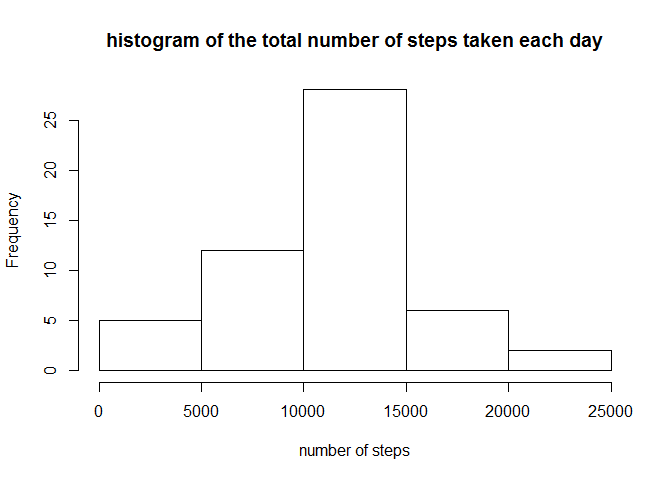
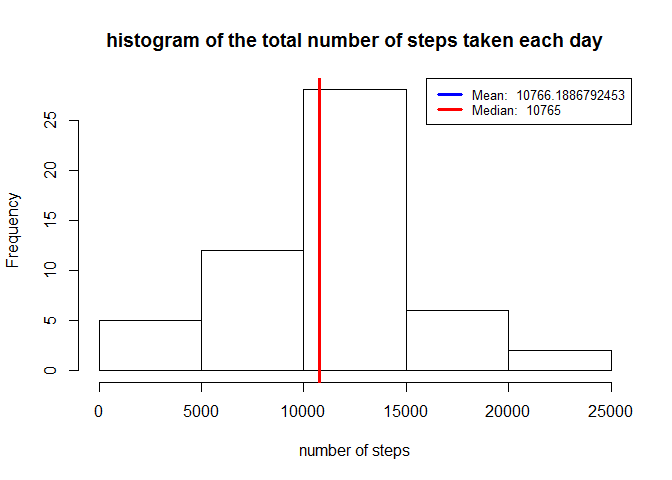
Added Legend

Changed region(s): [[0.4688, 0.1562, 0.5, 0.7812], [0.6562, 0.1875, 0.9375, 0.25]]

diff --git a/PA1_template.html b/PA1_template.html
@@ -134,14 +134,38 @@ hist(AggrSumByDay$steps,
      main = &quot;histogram of the total number of steps taken each day&quot;, 
      xlab = &quot;number of steps&quot; )
 
+#place lines for mean and median on histogram
+abline(v=mean(AggrSumByDay$steps), lwd = 3, col = 'blue')
+abline(v=median(AggrSumByDay$steps), lwd = 3, col = 'red')
+
+#create legend
+legend('topright', lty = 1, lwd = 3, col = c(&quot;blue&quot;, &quot;red&quot;),
+       cex = .8, 
+       legend = c(paste('Mean: ', mean(AggrSumByDay$steps)),
+       paste('Median: ', median(AggrSumByDay$steps)))
+       )
+
 dev.off() </code></pre>
 <pre><code>## png 
 ##   2</code></pre>
 <pre class="r"><code>## create a histogram of the total number of steps taken each day
 hist(AggrSumByDay$steps,
-     main = &quot;histogram of the total number of steps taken each day&quot;, 
-     xlab = &quot;number of steps&quot; )</code></pre>
[1 lines of base64/hex data omitted]
+    main = &quot;histogram of the total number of steps taken each day&quot;, 
+    xlab = &quot;number of steps&quot; )
+
+
+
+#place lines for mean and median on histogram
+abline(v=mean(AggrSumByDay$steps), lwd = 3, col = 'blue')
+abline(v=median(AggrSumByDay$steps), lwd = 3, col = 'red')
+
+#create legend
+legend('topright', lty = 1, lwd = 3, col = c(&quot;blue&quot;, &quot;red&quot;),
+       cex = .8, 
+       legend = c(paste('Mean: ', mean(AggrSumByDay$steps)),
+       paste('Median: ', median(AggrSumByDay$steps)))
+       )</code></pre>
[1 lines of base64/hex data omitted]
 <p>The mean is 1.076618910^{4} and the median is 10765</p>
 </div>
 <div id="what-is-the-average-daily-activity-pattern" class="section level2">
@@ -246,23 +270,70 @@ par(mfrow = c(1, 2)) #REMEMBER THIS PLACES THE IMAGES IN NW, NE, SW, SE QUADRANT
 hist(NewAggrSumByDay$steps,
      main = &quot;New Histogram - NA values =0&quot;, 
      xlab = &quot;number of steps&quot; )
+#place lines for mean and median on histogram
+abline(v=mean(NewAggrSumByDay$steps), lwd = 3, col = 'blue')
+abline(v=median(NewAggrSumByDay$steps), lwd = 3, col = 'red')
+
+#create legend
+legend('topright', lty = 1, lwd = 3, col = c(&quot;blue&quot;, &quot;red&quot;),
+       cex = .8, 
+       legend = c(paste('Mean: ', mean(NewAggrSumByDay$steps)),
+       paste('Median: ', median(NewAggrSumByDay$steps)))
+       )
+
 
 hist(AggrSumByDay$steps,
      main = &quot;Old Histogram - no NA values&quot;, 
      xlab = &quot;number of steps&quot; )
 
+#place lines for mean and median on histogram
+abline(v=mean(AggrSumByDay$steps), lwd = 3, col = 'blue')
+abline(v=median(AggrSumByDay$steps), lwd = 3, col = 'red')
+
+#create legend
+legend('topright', lty = 1, lwd = 3, col = c(&quot;blue&quot;, &quot;red&quot;),
+       cex = .8, 
+       legend = c(paste('Mean: ', mean(AggrSumByDay$steps)),
+       paste('Median: ', median(AggrSumByDay$steps)))
+       )
+
 dev.off()</code></pre>
 <pre><code>## png 
 ##   2</code></pre>
-<pre class="r"><code>## create a histogram of the total number of steps taken each day
+<pre class="r"><code>par(mfrow = c(1, 2)) #REMEMBER THIS PLACES THE IMAGES IN NW, NE, SW, SE QUADRANT ORDER
+
+## create a histogram of the total number of steps taken each day
 hist(NewAggrSumByDay$steps,
      main = &quot;New Histogram - NA values =0&quot;, 
-     xlab = &quot;number of steps&quot; )</code></pre>
[1 lines of base64/hex data omitted]
-<pre class="r"><code>hist(AggrSumByDay$steps,
+     xlab = &quot;number of steps&quot; )
+
+#place lines for mean and median on histogram
+abline(v=mean(NewAggrSumByDay$steps), lwd = 3, col = 'blue')
+abline(v=median(NewAggrSumByDay$steps), lwd = 3, col = 'red')
+
+#create legend
+legend('topright', lty = 1, lwd = 3, col = c(&quot;blue&quot;, &quot;red&quot;),
+       cex = .8, 
+       legend = c(paste('Mean: ', mean(NewAggrSumByDay$steps)),
+       paste('Median: ', median(NewAggrSumByDay$steps)))
+       )
+
+
+hist(AggrSumByDay$steps,
      main = &quot;Old Histogram - no NA values&quot;, 
-     xlab = &quot;number of steps&quot; )</code></pre>
[1 lines of base64/hex data omitted]
+     xlab = &quot;number of steps&quot; )
+
+#place lines for mean and median on histogram
+abline(v=mean(AggrSumByDay$steps), lwd = 3, col = 'blue')
+abline(v=median(AggrSumByDay$steps), lwd = 3, col = 'red')
+
+#create legend
+legend('topright', lty = 1, lwd = 3, col = c(&quot;blue&quot;, &quot;red&quot;),
+       cex = .8, 
+       legend = c(paste('Mean: ', mean(AggrSumByDay$steps)),
+       paste('Median: ', median(AggrSumByDay$steps)))
+       )</code></pre>
[1 lines of base64/hex data omitted]
 <p>New Mean(after replacing NA values with zero): 9354.2295082, Old Mean(after eliminating NA Values): 1.076618910^{4}</p>
 <p>New Median(after replacing NA values with zero): 1.039510^{4}, Old Median(after eliminating NA Values): 10765</p>
 <p>Imputing Missing data caused the mean and median to decrease, since the NA values which were previously eliminated were now counted in as zeros, thereby causing the denominator to increase in calculating the mean.</p>

diff --git a/PA1_template.md b/PA1_template.md
@@ -77,6 +77,17 @@ hist(AggrSumByDay$steps,
      main = "histogram of the total number of steps taken each day", 
      xlab = "number of steps" )
 
+#place lines for mean and median on histogram
+abline(v=mean(AggrSumByDay$steps), lwd = 3, col = 'blue')
+abline(v=median(AggrSumByDay$steps), lwd = 3, col = 'red')
+
+#create legend
+legend('topright', lty = 1, lwd = 3, col = c("blue", "red"),
+       cex = .8, 
+       legend = c(paste('Mean: ', mean(AggrSumByDay$steps)),
+       paste('Median: ', median(AggrSumByDay$steps)))
+       )
+
 dev.off() 
 ```
 
@@ -88,8 +99,21 @@ dev.off()
 ```r
 ## create a histogram of the total number of steps taken each day
 hist(AggrSumByDay$steps,
-     main = "histogram of the total number of steps taken each day", 
-     xlab = "number of steps" )
+    main = "histogram of the total number of steps taken each day", 
+    xlab = "number of steps" )
+
+
+
+#place lines for mean and median on histogram
+abline(v=mean(AggrSumByDay$steps), lwd = 3, col = 'blue')
+abline(v=median(AggrSumByDay$steps), lwd = 3, col = 'red')
+
+#create legend
+legend('topright', lty = 1, lwd = 3, col = c("blue", "red"),
+       cex = .8, 
+       legend = c(paste('Mean: ', mean(AggrSumByDay$steps)),
+       paste('Median: ', median(AggrSumByDay$steps)))
+       )
 ```
 
 ![](PA1_template_files/figure-html/unnamed-chunk-2-1.png) 
@@ -224,10 +248,32 @@ par(mfrow = c(1, 2)) #REMEMBER THIS PLACES THE IMAGES IN NW, NE, SW, SE QUADRANT
 hist(NewAggrSumByDay$steps,
      main = "New Histogram - NA values =0", 
      xlab = "number of steps" )
+#place lines for mean and median on histogram
+abline(v=mean(NewAggrSumByDay$steps), lwd = 3, col = 'blue')
+abline(v=median(NewAggrSumByDay$steps), lwd = 3, col = 'red')
+
+#create legend
+legend('topright', lty = 1, lwd = 3, col = c("blue", "red"),
+       cex = .8, 
+       legend = c(paste('Mean: ', mean(NewAggrSumByDay$steps)),
+       paste('Median: ', median(NewAggrSumByDay$steps)))
+       )
+
 
 hist(AggrSumByDay$steps,
      main = "Old Histogram - no NA values", 
      xlab = "number of steps" )
+
+#place lines for mean and median on histogram
+abline(v=mean(AggrSumByDay$steps), lwd = 3, col = 'blue')
+abline(v=median(AggrSumByDay$steps), lwd = 3, col = 'red')
+
+#create legend
+legend('topright', lty = 1, lwd = 3, col = c("blue", "red"),
+       cex = .8, 
+       legend = c(paste('Mean: ', mean(AggrSumByDay$steps)),
+       paste('Median: ', median(AggrSumByDay$steps)))
+       )
 
 dev.off()
 ```
@@ -238,21 +284,42 @@ dev.off()
 ```
 
 ```r
+par(mfrow = c(1, 2)) #REMEMBER THIS PLACES THE IMAGES IN NW, NE, SW, SE QUADRANT ORDER
+
 ## create a histogram of the total number of steps taken each day
 hist(NewAggrSumByDay$steps,
      main = "New Histogram - NA values =0", 
      xlab = "number of steps" )
-```
 
-![](PA1_template_files/figure-html/unnamed-chunk-6-1.png) 
+#place lines for mean and median on histogram
+abline(v=mean(NewAggrSumByDay$steps), lwd = 3, col = 'blue')
+abline(v=median(NewAggrSumByDay$steps), lwd = 3, col = 'red')
 
-```r
+#create legend
+legend('topright', lty = 1, lwd = 3, col = c("blue", "red"),
+       cex = .8, 
+       legend = c(paste('Mean: ', mean(NewAggrSumByDay$steps)),
+       paste('Median: ', median(NewAggrSumByDay$steps)))
+       )
+
+
 hist(AggrSumByDay$steps,
      main = "Old Histogram - no NA values", 
      xlab = "number of steps" )
+
+#place lines for mean and median on histogram
+abline(v=mean(AggrSumByDay$steps), lwd = 3, col = 'blue')
+abline(v=median(AggrSumByDay$steps), lwd = 3, col = 'red')
+
+#create legend
+legend('topright', lty = 1, lwd = 3, col = c("blue", "red"),
+       cex = .8, 
+       legend = c(paste('Mean: ', mean(AggrSumByDay$steps)),
+       paste('Median: ', median(AggrSumByDay$steps)))
+       )
 ```
 
-![](PA1_template_files/figure-html/unnamed-chunk-6-2.png) 
+![](PA1_template_files/figure-html/unnamed-chunk-6-1.png) 
 
 New Mean(after replacing NA values with zero): 9354.2295082, Old Mean(after eliminating NA Values): 1.0766189\times 10^{4}
 
